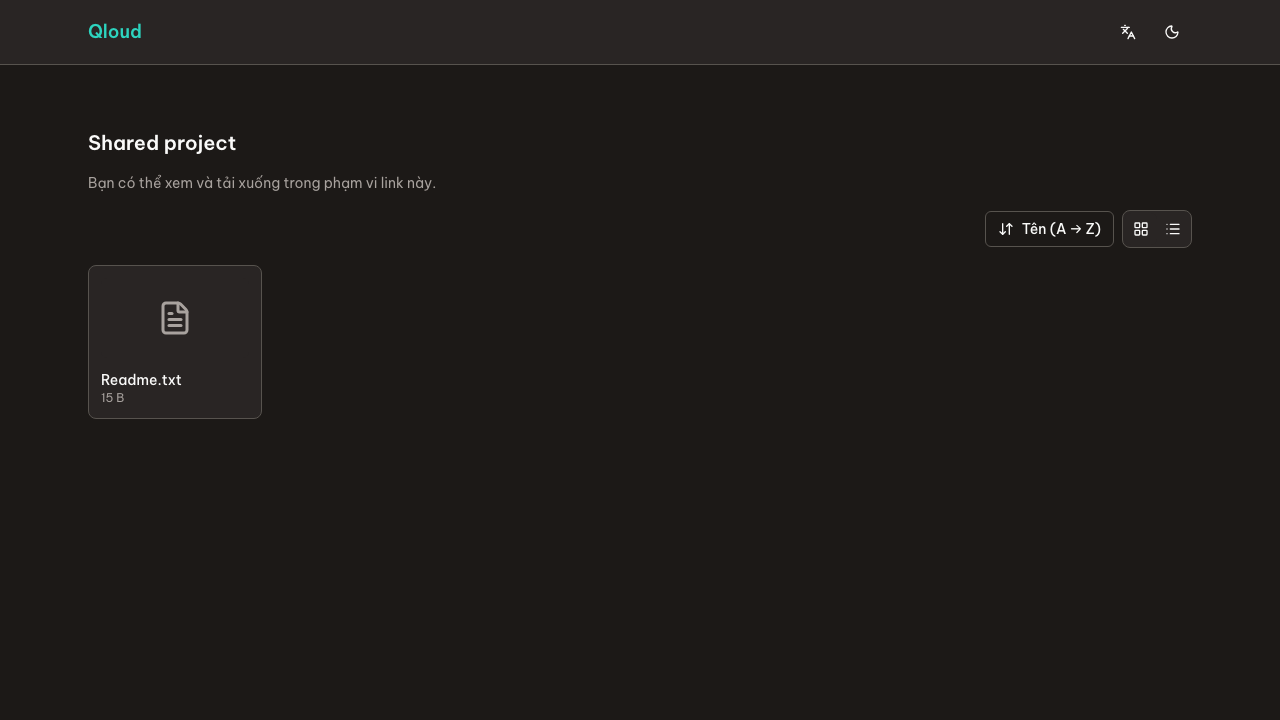
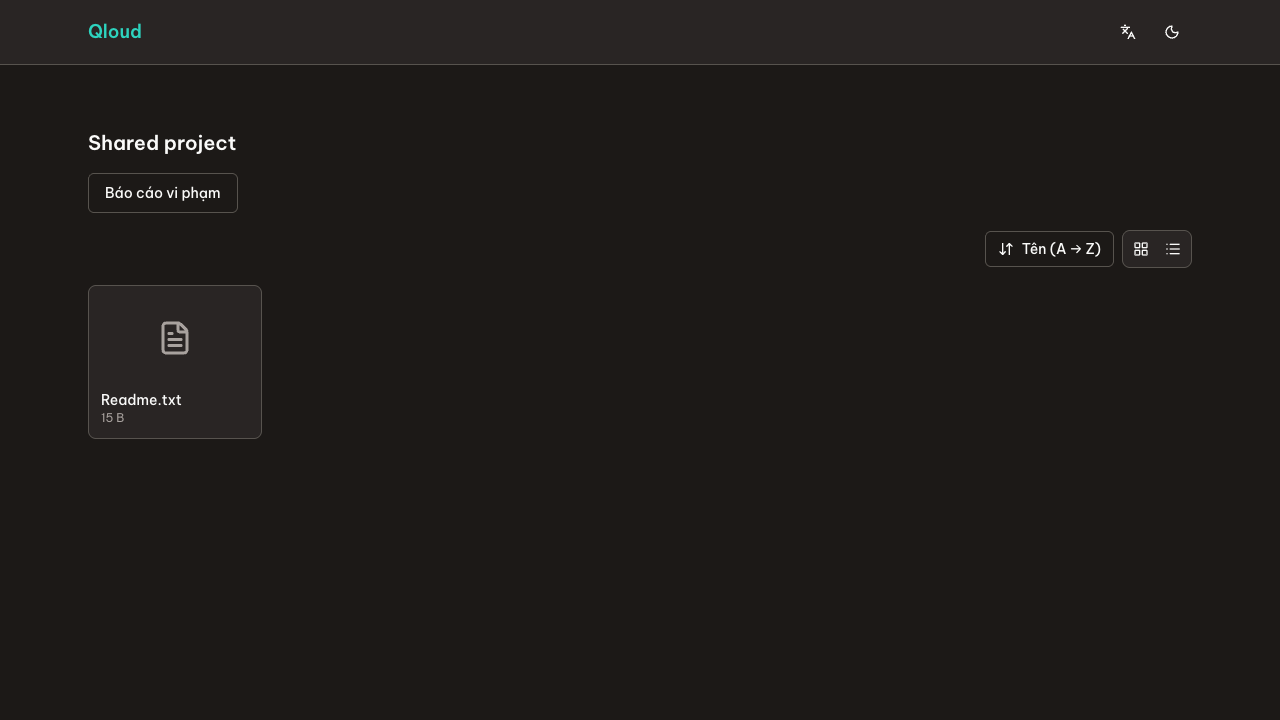
feat(sharing): show file links with the folder link layout (#174)
* feat(sharing): show file links with the folder link layout

A public file link now shows its name, the report button and the file
as a card with its thumbnail, like a folder link but without sorting.
Drop the "view and download within this link" line on both layouts.

* fix(fe): hide previous/next in the viewer for a single file

A file link or a standalone file has nothing to step to, so the arrows
only showed as disabled buttons.

* docs(sharing): refresh public link screenshots

---------

diff --git a/qloud_frontend/src/features/sharing/public-page.tsx b/qloud_frontend/src/features/sharing/public-page.tsx
@@ -134,36 +134,16 @@ function PublicBrowser({ token }: { token: string }) {
     );
   if (!root.data || !current.data)
     return <LoadingSkeleton view={view} label={t('sharing.loading')} />;
-  if (root.data.kind === 'file')
-    return (
-      <section>
-        <h1 className="text-xl font-semibold">{root.data.name}</h1>
-        <p className="mt-2 text-sm text-muted-foreground">
-          {t('sharing.publicDescription')}
-        </p>
-        <Button
-          className="mt-4"
-          onClick={() => {
-            open(root.data);
-          }}
-        >
-          {t('preview.open')}
-        </Button>
-        <FileViewer
-          nodes={[root.data]}
-          hasMore={false}
-          loadingMore={false}
-          loadMore={() => Promise.resolve()}
-        />
-      </section>
-    );
+  // A file link shows the same page as a folder link: name, report, the item.
+  const isFile = root.data.kind === 'file';
+  const items = isFile ? [root.data] : nodes;
   return (
     <section className="flex min-h-[60vh] flex-col gap-4">
       <nav
         aria-label={t('drive.breadcrumb')}
         className="flex flex-wrap items-center gap-2 text-sm"
       >
-        {current.data.breadcrumb.map((crumb) => (
+        {(isFile ? [] : current.data.breadcrumb).map((crumb) => (
           <Link
             className="text-primary underline"
             key={crumb.id}
@@ -174,9 +154,6 @@ function PublicBrowser({ token }: { token: string }) {
         ))}
         <h1 className="text-xl font-semibold">{current.data.name}</h1>
       </nav>
-      <p className="text-sm text-muted-foreground">
-        {t('sharing.publicDescription')}
-      </p>
       <Button
         variant="outline"
         className="self-start"
@@ -196,12 +173,12 @@ function PublicBrowser({ token }: { token: string }) {
         />
       )}
       <FileBrowser
-        nodes={nodes}
+        nodes={items}
         selected={selection}
         view={view}
         onView={setView}
         ordering={ordering}
-        onOrdering={setOrdering}
+        {...(isFile ? { orderingLabel: null } : { onOrdering: setOrdering })}
         actionsFor={actionsFor}
         onClearSelection={() => {
           setSelection([]);
@@ -209,12 +186,12 @@ function PublicBrowser({ token }: { token: string }) {
         onSelectAll={setSelection}
         onSelect={(node, { toggle, range }) => {
           if (range) {
-            const anchor = nodes.findIndex((n) => n.id === selection[0]?.id);
-            const end = nodes.findIndex((n) => n.id === node.id);
+            const anchor = items.findIndex((n) => n.id === selection[0]?.id);
+            const end = items.findIndex((n) => n.id === node.id);
             setSelection(
               anchor < 0
                 ? [node]
-                : nodes.slice(Math.min(anchor, end), Math.max(anchor, end) + 1),
+                : items.slice(Math.min(anchor, end), Math.max(anchor, end) + 1),
             );
           } else if (toggle)
             setSelection((old) =>
@@ -226,11 +203,11 @@ function PublicBrowser({ token }: { token: string }) {
         }}
         onOpen={open}
         draggable={false}
-        enabled={children.isSuccess}
-        pending={children.isPending}
-        failed={children.isError}
+        enabled={isFile || children.isSuccess}
+        pending={!isFile && children.isPending}
+        failed={!isFile && children.isError}
         onRetry={() => void children.refetch()}
-        hasMore={children.hasNextPage}
+        hasMore={!isFile && children.hasNextPage}
         isLoadingMore={children.isFetchingNextPage}
         onLoadMore={() => {
           if (!children.isFetchingNextPage) void children.fetchNextPage();
@@ -245,8 +222,8 @@ function PublicBrowser({ token }: { token: string }) {
         }
       />
       <FileViewer
-        nodes={nodes}
-        hasMore={children.hasNextPage}
+        nodes={items}
+        hasMore={!isFile && children.hasNextPage}
         loadingMore={children.isFetchingNextPage}
         loadMore={() => children.fetchNextPage()}
       />

diff --git a/qloud_frontend/src/features/drive/components/file-viewer.tsx b/qloud_frontend/src/features/drive/components/file-viewer.tsx
@@ -45,6 +45,8 @@ export function FileViewer({
   const index = files.findIndex((item) => item.id === id);
   const previous = files[index - 1];
   const next = files[index + 1];
+  // Nothing to step to: a single file (file link, standalone viewer).
+  const browsable = files.length > 1 || hasMore;
   const setFile = (nextId: string) => {
     document.querySelector<HTMLElement>('[data-file-viewer]')?.focus();
     const next = new URLSearchParams(params);
@@ -196,28 +198,32 @@ export function FileViewer({
             <Dialog.Description className="sr-only">
               {t('preview.description')}
             </Dialog.Description>
-            <Button
-              variant="ghost"
-              size="icon"
-              aria-label={t('preview.previous')}
-              disabled={index <= 0}
-              onClick={() => {
-                if (previous) setFile(previous.id);
-              }}
-            >
-              <ChevronLeft />
-            </Button>
-            <Button
-              variant="ghost"
-              size="icon"
-              aria-label={t('preview.next')}
-              disabled={
-                index < 0 || (!files[index + 1] && !hasMore) || loadingMore
-              }
-              onClick={() => void nextFile()}
-            >
-              <ChevronRight />
-            </Button>
+            {browsable && (
+              <>
+                <Button
+                  variant="ghost"
+                  size="icon"
+                  aria-label={t('preview.previous')}
+                  disabled={index <= 0}
+                  onClick={() => {
+                    if (previous) setFile(previous.id);
+                  }}
+                >
+                  <ChevronLeft />
+                </Button>
+                <Button
+                  variant="ghost"
+                  size="icon"
+                  aria-label={t('preview.next')}
+                  disabled={
+                    index < 0 || (!files[index + 1] && !hasMore) || loadingMore
+                  }
+                  onClick={() => void nextFile()}
+                >
+                  <ChevronRight />
+                </Button>
+              </>
+            )}
             <Button
               variant="ghost"
               size="icon"

diff --git a/qloud_frontend/e2e/sharing-ui.spec.ts b/qloud_frontend/e2e/sharing-ui.spec.ts
@@ -294,9 +294,26 @@ test('public file opens anonymously, denies outside scope and expires', async ({
     await expect(
       visitor.getByText('Public file content', { exact: true }),
     ).toBeVisible();
+    await expect(
+      visitor.getByRole('button', { name: /^Tệp (trước|sau)$/ }),
+    ).toHaveCount(0);
     await captures(visitor, 'public-file', isMobile);
     await visitor.keyboard.press('Escape');
     await expect(visitor.getByRole('dialog')).toHaveCount(0);
+    // Closing the viewer shows the folder-link layout without sorting.
+    await expect(
+      visitor.getByRole('heading', { name: 'Public.txt' }),
+    ).toBeVisible();
+    await expect(
+      visitor.getByRole('button', { name: 'Báo cáo vi phạm' }),
+    ).toBeVisible();
+    await expect(
+      visitor.getByRole('option', { name: 'Public.txt', exact: true }),
+    ).toBeVisible();
+    await expect(
+      visitor.getByRole('button', { name: /Sắp xếp|Tên \(A/ }),
+    ).toHaveCount(0);
+    await captures(visitor, 'public-file-page', isMobile);
     const outside = await root(page);
     expect(
       (

diff --git a/qloud_frontend/src/features/drive/preview.test.tsx b/qloud_frontend/src/features/drive/preview.test.tsx
@@ -113,12 +113,13 @@ it('opens a directly granted file without listing its private parent and closes 
   );
   const router = renderApp(`/drive/files/${compactId(target.id)}`, testUser);
   const dialog = await screen.findByRole('dialog', { name: target.name });
+  // A single file has nowhere to step: no previous/next buttons.
   expect(
-    within(dialog).getByRole('button', { name: 'Previous file' }),
-  ).toBeDisabled();
+    within(dialog).queryByRole('button', { name: 'Previous file' }),
+  ).not.toBeInTheDocument();
   expect(
-    within(dialog).getByRole('button', { name: 'Next file' }),
-  ).toBeDisabled();
+    within(dialog).queryByRole('button', { name: 'Next file' }),
+  ).not.toBeInTheDocument();
   await user.keyboard('{ArrowRight}{ArrowLeft}');
   expect(router.state.location.pathname).toBe(
     `/drive/files/${compactId(target.id)}`,

diff --git a/qloud_frontend/src/features/drive/components/drive-toolbar.tsx b/qloud_frontend/src/features/drive/components/drive-toolbar.tsx
@@ -26,7 +26,8 @@ export interface DriveToolbarProps {
   selected: DriveNode[];
   view: DriveView;
   ordering: Ordering;
-  orderingLabel?: string;
+  /** Shown instead of the sort menu without `onOrdering`; null hides both. */
+  orderingLabel?: string | null;
   onView: (view: DriveView) => void;
   onOrdering?: (ordering: Ordering) => void;
 }
@@ -77,7 +78,7 @@ export function DriveToolbar({
               </DropdownMenuRadioGroup>
             </DropdownMenuContent>
           </DropdownMenu>
-        ) : (
+        ) : orderingLabel === null ? null : (
           <span className="text-xs text-muted-foreground">
             {orderingLabel ?? t(`drive.sort.${ORDERING_KEYS[ordering]}`)}
           </span>

diff --git a/qloud_frontend/e2e/shared-file-link.spec.ts b/qloud_frontend/e2e/shared-file-link.spec.ts
@@ -127,10 +127,10 @@ test('file grant email opens without parent access and respects revocation', asy
     ).toBeVisible();
     await expect(
       dialog.getByRole('button', { name: 'Tệp trước', exact: true }),
-    ).toBeDisabled();
+    ).toHaveCount(0);
     await expect(
       dialog.getByRole('button', { name: 'Tệp sau', exact: true }),
-    ).toBeDisabled();
+    ).toHaveCount(0);
     await expect(
       recipient.getByText('Email shared folder', { exact: true }),
     ).toHaveCount(0);

diff --git a/qloud_docs/ui-ux.md b/qloud_docs/ui-ux.md
@@ -121,11 +121,11 @@ Mỗi request chọn tối đa 1.000 mục, theo giới hạn API. Đủ i18n vi
 
 - Được chia sẻ dùng lưới/danh sách và cursor chung Drive, thêm tên owner và quyền thực tế. Mở file qua route riêng, folder qua Drive; không nhận drop upload ở danh sách này.
 - Hộp thoại Chia sẻ mở từ menu của một mục có quyền hoặc từ panel chi tiết. Hai phần Người có quyền truy cập và Link công khai; email/role, danh sách grant, hạn dùng tùy chọn, copy và thu hồi. Hộp thoại cuộn trong 90dvh, co tới 360px; Esc/Đóng trả focus về nơi mở.
-- Trang public dùng PublicLayout với ngôn ngữ/theme, chỉ xem/download. File root mở viewer toàn màn hình, đóng về trang link; folder dùng breadcrumb giới hạn trong cây và FileBrowser. Menu thao tác hoạt động ngay cả khi chưa chọn mục. Link không còn hợp lệ hiện “Nội dung không còn khả dụng”. Báo cáo vi phạm triển khai cùng M5-07.
+- Trang public dùng PublicLayout với ngôn ngữ/theme, chỉ xem/download. Link file và link folder dùng cùng bố cục: tên (`<h1>`), nút Báo cáo vi phạm, thanh chọn dạng lưới/danh sách và FileBrowser (thumbnail). Link file chỉ có một card là file đó và không có sắp xếp; mở link thì viewer toàn màn hình tự mở, đóng về trang này. Folder có thêm sắp xếp và breadcrumb giới hạn trong cây. Không có dòng mô tả phạm vi link. Menu thao tác hoạt động ngay cả khi chưa chọn mục. Link không còn hợp lệ hiện “Nội dung không còn khả dụng”. Báo cáo vi phạm triển khai cùng M5-07.
 
 
 ### Báo cáo và kiểm duyệt — M5-07
-S-12 thêm nút “Báo cáo vi phạm” cho folder hiện tại; viewer file có nút cờ báo cáo đúng file đang xem. Modal dùng select lý do, textarea mô tả, email liên hệ và Turnstile; đang gửi khóa thao tác, thành công có xác nhận, lỗi quota/404/captcha có thông báo dịch. Dùng cùng dialog, button, màu và layout responsive hiện có.
+S-12 thêm nút “Báo cáo vi phạm” cho folder hiện tại hoặc file của link file; viewer file có nút cờ báo cáo đúng file đang xem. Modal dùng select lý do, textarea mô tả, email liên hệ và Turnstile; đang gửi khóa thao tác, thành công có xác nhận, lỗi quota/404/captcha có thông báo dịch. Dùng cùng dialog, button, màu và layout responsive hiện có.
 
 Route `/moderation` trong app shell chỉ cho superuser (flag `/me.is_superuser`), navigation kiểm duyệt chỉ hiện khi có quyền. User thường truy cập URL trực tiếp thấy trang 404 (S-15) và không gọi API báo cáo. Desktop dùng hai cột danh sách–chi tiết; hàng được chọn có viền rõ, badge trạng thái và số report cùng node. Mobile 360px chuyển danh sách → chi tiết với nút quay lại. Danh sách lọc trạng thái/node và tải thêm theo cursor. Chi tiết gồm nội dung, thời gian/mã report, liên hệ, node bị báo cáo, node gốc link, loại/kích thước/MIME, owner tên/email/trạng thái và trạng thái link hiện tại. Đích đã xóa hiện rõ, UUID/tên snapshot vẫn giữ. Mục report cùng node hiện tổng/đang mở và nút xem tất cả (bỏ filter status, giữ phân trang); giải thích mỗi report được xử lý riêng. Audit hiện người/thời gian/ghi chú và kết quả thực tế (link mới bị gỡ, owner mới bị khóa hoặc không có thay đổi mới). Report open có chọn action, giải thích phạm vi, ghi chú bắt buộc và bước xác nhận. Xử lý xong hiện audit, không còn form. Hỗ trợ light/dark, vi/en và 360px; `/admin/` của Django giữ chức năng đọc audit.
 

diff --git a/qloud_docs/features/download-preview.md b/qloud_docs/features/download-preview.md
@@ -51,7 +51,7 @@
 - Viewer refresh URL nguồn trước hạn 30 giây; loading/lỗi/thử lại và trạng thái không hỗ trợ có bản dịch vi/en. Ảnh dùng img; video/audio native controls và preload metadata; text đọc trực tiếp S3 và chèn text vào pre, không HTML/Markdown render. Khi đóng/đổi file, source fetch/PDF task/media được hủy hoặc dừng.
 - Lifecycle video/audio gán nguồn trong setup và giải phóng trong cleanup, bao gồm vòng setup/cleanup/setup của React StrictMode ở dev. Khi refresh URL, lưu vị trí và giữ trạng thái phát/tạm dừng của người dùng; bỏ qua pause/timeupdate do reset nguồn trong lúc khôi phục, rồi seek và tiếp tục phát nếu trước đó đang phát. Test Chromium gồm cả production build và Vite dev (`PREVIEW_DEV=1`), xác minh src, metadata, phát audio/video và tua Range; thêm regression refresh URL ở cả trạng thái phát/tạm dừng, desktop/360px.
 - PDF dùng pdf.js 6.4, canvas từng trang, chọn trang/zoom/fit chiều rộng; không dựng mọi trang cùng lúc. Ô số trang chỉ nhận số nguyên trong `1..numPages`; nhập rỗng, số thập phân hoặc ngoài khoảng thì giữ trang đang xem, không gọi pdf.js với trang không hợp lệ. Worker, CMap/font/WASM được build/host trong app, không dùng CDN. Không có annotation/action/scripting layer thực thi script hay liên kết trong PDF.
-- Link `/drive/files/:id` (UUID compact) resolve node và folder hiện tại, rồi mở overlay ở folder đó, nên vẫn đúng sau khi file di chuyển. Nếu folder cha trả 404 nhưng file còn quyền, mở viewer độc lập chỉ chứa file đó, tắt chuyển file và đóng về Drive; không tải danh sách hoặc hiển thị tên folder cha. Lỗi cha khác 404 hiển thị lỗi và cho thử lại. Copy link/tab mới/middle click/Ctrl hoặc ⌘+Enter dùng route này cho file. Gần đây dùng cùng viewer và link.
+- Link `/drive/files/:id` (UUID compact) resolve node và folder hiện tại, rồi mở overlay ở folder đó, nên vẫn đúng sau khi file di chuyển. Nếu folder cha trả 404 nhưng file còn quyền, mở viewer độc lập chỉ chứa file đó, không hiện nút chuyển file (viewer chỉ có một file và không còn trang để tải thì ẩn ‹ ›, kể cả link công khai trỏ tới file) và đóng về Drive; không tải danh sách hoặc hiển thị tên folder cha. Lỗi cha khác 404 hiển thị lỗi và cho thử lại. Copy link/tab mới/middle click/Ctrl hoặc ⌘+Enter dùng route này cho file. Gần đây dùng cùng viewer và link.
 
 ### Kết quả review M3 (11/10/2026)
 - [M3-05 / #126](https://github.com/q2kit/qloud/issues/126): đã bỏ polling chờ thumbnail và giữ trạng thái/vị trí media khi refresh URL; đã merge [PR #129](https://github.com/q2kit/qloud/pull/129).

diff --git a/qloud_docs/features/sharing.md b/qloud_docs/features/sharing.md
@@ -89,7 +89,7 @@
 - Owner tạo nhiều link có hạn dùng (nhập giờ local, gửi ISO) hoặc không hết hạn, sao chép URL `/s/:token`, xem trạng thái hết hạn/thu hồi và thu hồi. Editor chỉ quản lý grant người dùng; API links trả 404 thì hiển thị chỉ owner quản lý link. Link thu hồi không bật lại.
 - S-07 `/shared` dùng FileBrowser/NodeCollection với cursor/sắp xếp/grid/list, hiển thị owner và quyền thực tế; chỉ liệt kê grant trực tiếp, không tự bung cây. Folder mở trong Drive; file mở route canonical (kể cả chia sẻ file riêng). Có loading/rỗng/lỗi/thử lại.
 - Drive lấy capabilities cho mục đang chọn để hiện action ghi/chia sẻ. Folder viewer không nhận upload/drop hay mở tạo folder; header tạo mới bị vô hiệu. Breadcrumb/back trong cây được chia sẻ dùng UUID của mục, chỉ gọi “Drive của tôi” khi đúng root của người nhận.
-- S-12 `/s/:token` dùng layout công khai, không yêu cầu session. Root file tự mở viewer; đóng vẫn ở trang link và mở lại được. Folder có breadcrumb trong cây, grid/list, cursor/sắp xếp, viewer chuyển file và tải trực tiếp S3. Không có action ghi hoặc đường về tổ tiên ngoài phạm vi link.
+- S-12 `/s/:token` dùng layout công khai, không yêu cầu session. Root file tự mở viewer; đóng thì về trang link có cùng bố cục với link folder (tên, Báo cáo vi phạm, lưới/danh sách với một card file có thumbnail, không có sắp xếp) và mở lại được từ card. Folder có breadcrumb trong cây, grid/list, cursor/sắp xếp, viewer chuyển file và tải trực tiếp S3. Không có action ghi hoặc đường về tổ tiên ngoài phạm vi link.
 - Query/cache node, danh sách và preview/thumbnail public tách theo token; public viewer luôn dùng API token dù visitor đã đăng nhập. Preview dùng cơ chế refresh URL và component ảnh/PDF/media/text hiện có. Link sai/hết hạn/thu hồi hoặc folder ngoài cây có thông báo nội dung không còn khả dụng; các lỗi khác cho thử lại.
 - M5-07 (#39) bổ sung nút báo cáo cho folder đang duyệt và toolbar viewer của file công khai.
 
